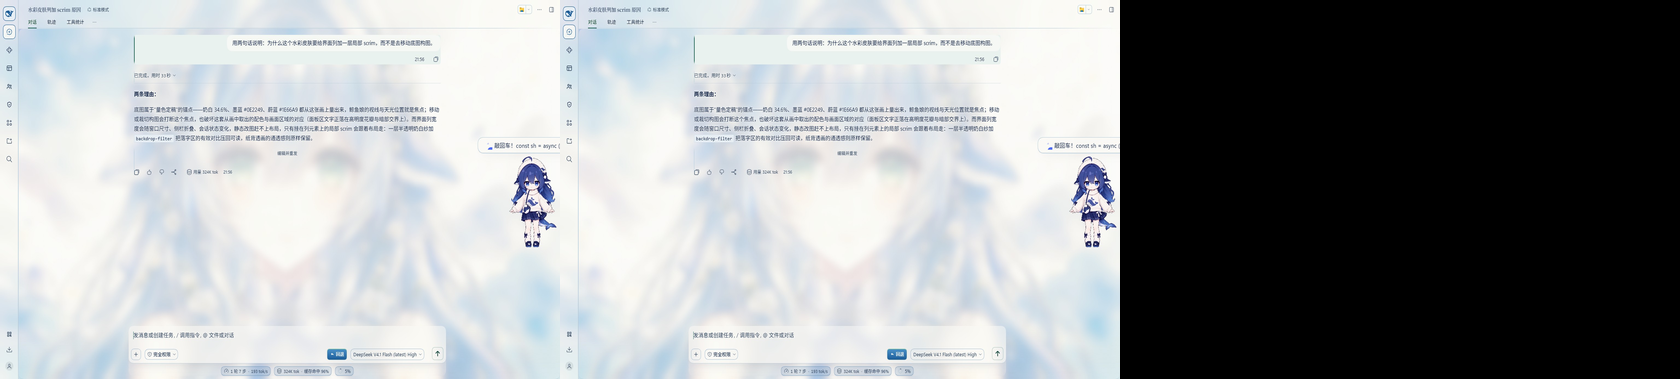
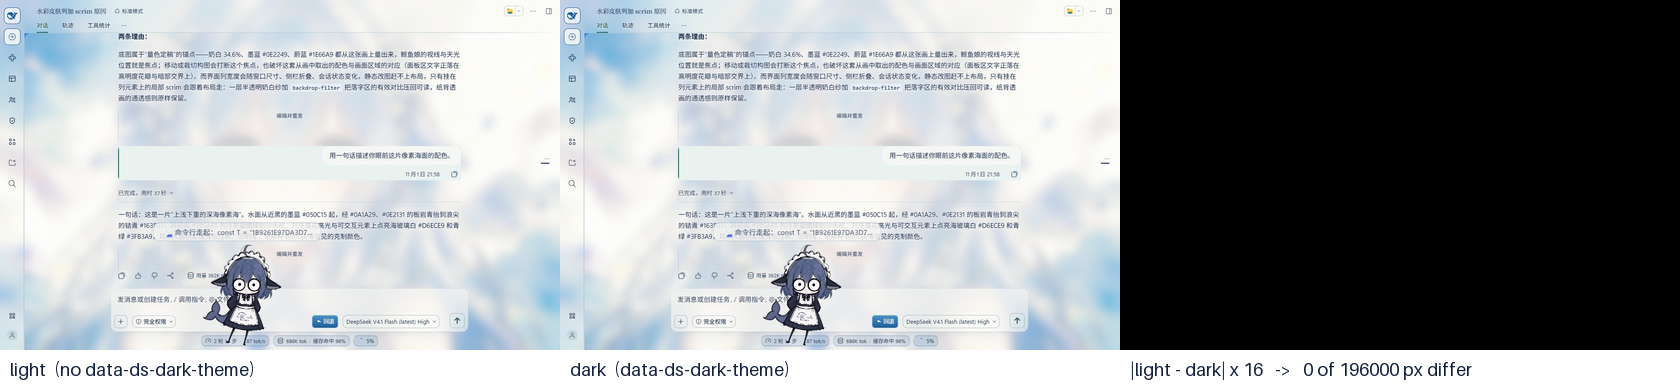
fix(skins): narrow whale-watercolour's local scrim to the interface band
Answers the 2026-11-05 intake note.

- The scrim was a full-frame wash fading out too late: the picture-only columns
  either side of the interface lost about a fifth of their detail and the
  illustration read as cream fog. It is now a 980 px band centred like the
  shell's content column, dying inside a 10 % ramp at each end. Against the
  no-scrim render at 1280x800, detail energy moves from 27.58 to 16.27 in the
  interface band, while the picture columns stay on the baseline (9.53 -> 9.56
  left, 4.88 -> 4.94 right; the old wash put them at 7.74 and 3.96).
- Evidence re-shot on the running shell at a declarable viewport: 1280x800,
  device pixel ratio 1, committed as captured. preview/{light,dark}.jpg and
  their evidence twins are the same bytes.
- New evidence/whale-watercolour-home.jpg: the empty-session home page with the
  hero title, the workspace chip and the centred composer over her face - the
  composition the 2026-10-28 note named, now under the local scrim. The session
  capture stays beside it.
- The dark entry is declared as the light file instead of being passed off as a
  second theme, and the theme-parity panel now labels its three cells (light /
  dark / absolute difference x 16) and states the differing-pixel count on the
  panel.
- Both READMEs describe the four evidence files, the measurement table and the
  dark-tier declaration; the old 1680x1000 figure is gone.

diff --git a/skins/whale-watercolour/patches.css b/skins/whale-watercolour/patches.css
@@ -68,8 +68,14 @@ body[data-ds-dark-theme] {
  * So the picture keeps its composition and the *interface* gets its own local
  * scrim: the same cream veil as everywhere else, painted above the media and
  * under the text, thick over the conversation column, the composer and the
- * header band, faded out toward the right edge and the picture-only corners.
- * No new colour enters the palette.
+ * header band. No new colour enters the palette.
+ *
+ * The veil is a band, not a wash over the whole frame (2026-11-05 intake note:
+ * the first cut faded out too late, so the picture-only columns left and right
+ * of the interface were veiled as well and the illustration went milky). The
+ * band is 980 px wide, centred like the shell's content column, and dies inside
+ * a 10 % ramp at each end; everything outside it keeps the illustration's own
+ * detail, so the scrim's boundary is visible and the painting stays a painting.
  */
 body [data-dsh-skin-layer='background'] > img,
 body [data-dsh-skin-layer='background'] > video {
@@ -79,11 +85,17 @@ body [data-dsh-skin-layer='background'] > video {
 body [data-dsh-skin-layer='background']::after {
   content: '';
   position: absolute;
-  inset: 0;
+  top: 0;
+  bottom: 0;
+  left: 50%;
+  width: min(100%, 980px);
+  transform: translateX(-50%);
   pointer-events: none;
   background:
-    radial-gradient(120% 92% at 46% 46%, rgba(250, 249, 245, 0.62) 0%, rgba(250, 249, 245, 0.42) 46%, rgba(250, 249, 245, 0.10) 74%, rgba(250, 249, 245, 0) 88%),
+    radial-gradient(120% 92% at 50% 46%, rgba(250, 249, 245, 0.62) 0%, rgba(250, 249, 245, 0.42) 46%, rgba(250, 249, 245, 0.10) 74%, rgba(250, 249, 245, 0) 88%),
     linear-gradient(180deg, rgba(250, 249, 245, 0.30) 0%, rgba(250, 249, 245, 0.14) 22%, rgba(250, 249, 245, 0.14) 78%, rgba(250, 249, 245, 0.34) 100%);
+  -webkit-mask-image: linear-gradient(90deg, transparent 0%, #000 10%, #000 90%, transparent 100%);
+  mask-image: linear-gradient(90deg, transparent 0%, #000 10%, #000 90%, transparent 100%);
 }
 
 /* ── canvas: the theme's ground ──────────────────────────────────────────── */

diff --git a/skins/whale-watercolour/README.md b/skins/whale-watercolour/README.md
@@ -77,11 +77,24 @@ high-detail region for another under the text - a zoomed-out recentre still leav
 
 So the picture keeps its composition and the **interface gets its own local scrim**:
 the conversation column, the composer and the header band carry one extra cream layer
-(radial 0.62 -> 0.42 -> 0.10 -> 0, over a 0.30 / 0.14 / 0.34 vertical wash) that fades
-out toward the right edge and the picture-only corner. Gaussian high-pass detail
-energy inside the interface column drops from 17.45 to 7.23; the picture-only upper
-right corner measures 0.4 under the same instrument, so where she is left alone she
-stays as clear as before.
+(radial 0.62 -> 0.42 -> 0.10 -> 0, over a 0.30 / 0.14 / 0.34 vertical wash).
+
+The layer is a **band, not a wash over the frame** (2026-11-05 intake note: the first cut
+faded out too late, so the picture-only columns either side of the interface were veiled
+too and the illustration went milky). The band is 980 px wide, centred like the shell's
+content column, and dies inside a 10 % ramp at each end. Measured on the running shell at
+1280x800 under a Laplacian high-pass (mean `|4N - N|` per pixel over the region), same
+layout, same frame:
+
+| region | no scrim | this band | the first full-frame wash |
+| --- | --- | --- | --- |
+| interface band, 250-1030 px | 27.58 | 16.27 | 15.98 |
+| picture column, left 0-150 px | 9.53 | 9.56 | 7.74 |
+| picture column, right 1140-1280 px | 4.88 | 4.94 | 3.96 |
+
+The interface lands at the same softening the review accepted, while the picture columns
+sit on the no-scrim baseline instead of losing a fifth of their detail, and the scrim's
+own edge is now visible in the frame.
 
 Each value was **reverse-solved** against real pixels, and the sampling method
 matters: taking "the darkest 1 % of the box" as the paper reads **the text itself**
@@ -124,6 +137,27 @@ are **the same bytes** — `preview/light.jpg` and `preview/dark.jpg` share a sh
 (`32758B56…3429C4`) — and a dark-mode user who switches to it gets the same light
 interface. That is the intent, not a missing file.
 
+## Evidence
+
+Four files under `evidence/`, all captured on the running shell (:19387) at a
+**1280x800 viewport, device pixel ratio 1**, committed as captured — no scaling, no
+resampling:
+
+| file | what it shows |
+| --- | --- |
+| `whale-watercolour-home.jpg` | the empty-session home page — the "Let's start building" title, the workspace and branch chips and the centred composer over her face, i.e. the composition the 2026-10-28 note named, now under the local scrim |
+| `whale-watercolour-light.jpg` | a session with a real question and answer, long text sitting on her dark blue hair |
+| `whale-watercolour-dark.jpg` | the light capture, byte for byte — see the note below |
+| `whale-watercolour-theme-parity.png` | three labelled panels: light, dark, and the absolute difference of the two scaled by 16 |
+
+`preview/light.jpg` and `preview/dark.jpg` are byte-identical to their evidence twins.
+
+**The dark entry is the light file itself, and it is declared rather than passed off as a
+second theme.** This skin pins every token to the light palette, so a dark-theme render can
+only come out as the same pixels; the parity panel says so in one labelled line
+(`0 of 196,000 sampled pixels differ`) instead of leaving the reader to guess. The store's
+dark tier therefore shows one image, which is the intent already recorded in the manifest.
+
 ## Verification
 
 Everything above was measured on the running shell (:19387) and on the official
@@ -134,7 +168,7 @@ market try-on page, not estimated:
 | every custom property the shell declares on `body`, light vs dark | **0 / 553 differ** |
 | every visible element's computed style, light vs dark, on the live shell (8 scenes: hero, session, right pane, settings, menu, composer focus, composer menu, hover card) | **0 differences** (the only residuals were rows of new streaming output the live session created between the two snapshots, plus one entry animation caught mid-flight) |
 | the light side, after pinning vs before pinning | **36 / 36 token values unchanged** |
-| official try-on page render, light vs dark, 1680x1000 | **0 of 1,680,000 pixels differ** |
+| official try-on page render, light vs dark, 1280x800 | **0 of 1,024,000 pixels differ** |
 | control: the same harness on a dual-theme skin | 99.999 % of pixels differ (so the harness really switches themes) |
 
 ## Attribution and licence

diff --git a/skins/whale-watercolour/README.zh.md b/skins/whale-watercolour/README.zh.md
@@ -69,9 +69,21 @@
 落在界面列里，还会在边上留一条没铺满的带子。
 
 所以画保持原构图，**给界面加一层局部纱**：会话列、输入卡与头部所在的区域多压一层奶白
-（径向 0.62 → 0.42 → 0.10 → 0，叠一条上下 0.30 / 0.14 / 0.34 的纵向纱），往右缘与
-画面独占的角落淡出。高斯高通的局部细节能量在界面列里从 17.45 降到 7.23，而画面独占的
-右上角同一量具下是 0.4 —— 她不被压住的地方照样清透。
+（径向 0.62 → 0.42 → 0.10 → 0，叠一条上下 0.30 / 0.14 / 0.34 的纵向纱）。
+
+这层纱是一条**带子，不是糊满整幅画**（2026-11-05 的接收记录：上一稿淡出得太晚，
+界面列左右两侧本该只属于画面的地带也被压了，整张插画成了乳白雾）。带子宽 980 像素、
+与壳的内容列同轴居中，两端各有 10% 的斜坡收干。在跑着的壳上按 1280x800、同一布局、
+同一帧，用拉普拉斯高通（每像素 `|4N - N|`，再对区域取均值）量：
+
+| 区域 | 没有纱 | 这条带子 | 上一稿糊满全幅 |
+| --- | --- | --- | --- |
+| 界面带 250-1030 像素 | 27.58 | 16.27 | 15.98 |
+| 画面列，左 0-150 像素 | 9.53 | 9.56 | 7.74 |
+| 画面列，右 1140-1280 像素 | 4.88 | 4.94 | 3.96 |
+
+界面那部分落在评审已经接受过的软化量上；两侧画面列回到「没有纱」的基线，
+不再丢掉两成细节，而且纱的边界在画面里看得出来了。
 
 每一档都是**对着真实像素反解**出来的，而**取样方法很关键**：拿「盒子最暗 1%」当纸底，
 量到的其实是**文字自己**（或她那一大片头发），于是每个面都被判厚一档。上表这组改成了
@@ -108,6 +120,25 @@
 与 `preview/dark.jpg` 的 sha256 相同，`32758B56…3429C4`），暗色用户切过来得到的也是同一套
 浅色界面 —— 这是刻意为之，不是漏了暗色素材。
 
+## 证据
+
+`evidence/` 下四个文件，全部在跑着的壳（:19387）上按 **1280×800 视口、设备像素比 1**
+截取，原样入库 —— 不缩放、不重采样：
+
+| 文件 | 画面是什么 |
+| --- | --- |
+| `whale-watercolour-home.jpg` | 首页空会话态 —— 「Let's start building」标题、工作区与分支标签、居中输入卡都压在她脸上，正是 2026-10-28 那条记录点名的构图，现在压在局部纱下 |
+| `whale-watercolour-light.jpg` | 一段真实的一问一答，长文本正落在她深蓝的头发上 |
+| `whale-watercolour-dark.jpg` | 与浅色那张逐字节相同 —— 见下 |
+| `whale-watercolour-theme-parity.png` | 三格带标注：浅、暗、两者绝对差 × 16 |
+
+`preview/light.jpg`、`preview/dark.jpg` 与 `evidence/` 下同名文件逐字节相同。
+
+**暗色那一条就是浅色那个文件本身，这里明说，不冒充第二次抓拍。** 这套皮把每个 token 都
+钉在浅色上，暗色渲染只可能得到同一份像素；parity 图用一行标注把这件事讲清楚
+（`196,000 个采样像素里 0 个不同`），而不是留给人去猜。商店的暗色档因此显示同一张图，
+这正是清单里已经写明的设计。
+
 ## 验收
 
 上面每一个数都是在跑着的真壳（:19387）与官方市场试穿页上量出来的，不是估的：
@@ -117,7 +148,7 @@
 | 外壳在 `body` 上声明的全部自定义属性，浅 vs 暗 | **0 / 553 不同** |
 | 全部可见元素的 computed 样式，浅 vs 暗，真壳上 8 个场景（首屏 / 会话 / 右栏 / 设置 / 菜单 / 输入卡聚焦 / 输入卡菜单 / 悬停卡） | **0 处差异**（仅剩的残差是两次快照之间「正在流式输出的新行」与一条被截在动画中途的入场） |
 | 浅色侧：钉之前 vs 钉之后 | **36 / 36 支取值未变** |
-| 官方试穿页渲染，浅 vs 暗，1680x1000 | **1,680,000 个像素里 0 个不同** |
+| 官方试穿页渲染，浅 vs 暗，1280x800 | **1,024,000 个像素里 0 个不同** |
 | 对照组：同一台量具跑一张双主题皮 | 99.999% 的像素不同（证明量具真的在切主题） |
 
 ## 归属与许可
